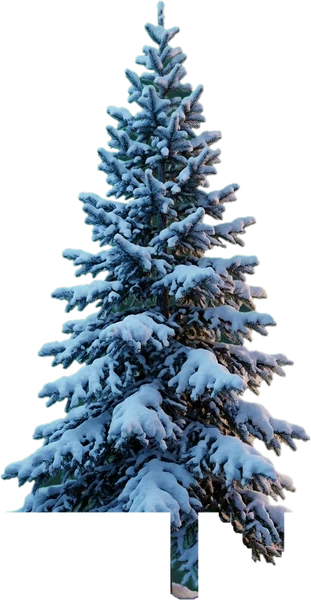
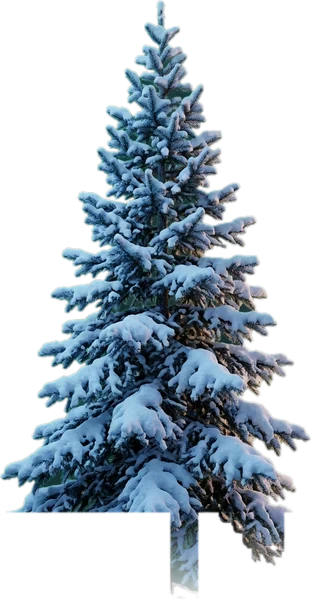
Game: textured 3D cottages and cup cottages, snow ground, bloom

Changed region(s): [[0.5209, 0.87, 0.6367, 1.0], [0.7524, 0.87, 0.926, 0.96]]

diff --git a/game.js b/game.js
@@ -23,7 +23,7 @@
     if (s.userData.x) s.scale.set(w, s.userData.h, w); else s.scale.set(w, s.userData.h, 1); if (s.userData.onfit && !s.userData.built) { s.userData.built = 1; s.userData.onfit(w, s.userData.h, im); }
     if (s.userData.mound && !s.userData.m) { const m = new T.Mesh(moundGeo, snowMat); m.scale.set(w * 1.15, 1, w * .8); m.position.set(s.position.x, .1, s.position.z); m.renderOrder = -1; scene.add(m); s.userData.m = m; } };
   function prop(n, h, x, z, extra, mound = true) {
-    if (!mats[n]) { users[n] = []; const t = TL.load('img/g/' + n + '.webp', () => users[n].forEach(fit)); t.encoding = T.sRGBEncoding; t.anisotropy = 4; mats[n] = new T.MeshBasicMaterial({ map: t, transparent: true, alphaTest: .04, side: T.DoubleSide }); }
+    if (!mats[n]) { users[n] = []; const t = TL.load('img/g/' + n + '.webp?v=2', () => users[n].forEach(fit)); t.encoding = T.sRGBEncoding; t.anisotropy = 4; mats[n] = new T.MeshBasicMaterial({ map: t, transparent: true, alphaTest: .04, side: T.DoubleSide }); }
     const s = new T.Mesh(CARD, extra ? Object.assign(mats[n].clone(), extra) : mats[n]); s.userData.h = h; s.userData.mound = mound; s.position.set(x, 0, z); s.scale.set(0, 0, 0); scene.add(s); users[n].push(s); cards.push(s); fit(s); return s;
   }
   function xprop(n, h, x, z) { // three crossed cards: reads as a full tree from every side
@@ -39,14 +39,44 @@
     for (let i = 0; i < 500; i++) { const r = rnd(4, 18), gx = rnd(0, 256), gy = rnd(0, 256), gr = x.createRadialGradient(gx, gy - r * .3, 0, gx, gy, r); gr.addColorStop(0, 'rgba(255,255,255,.55)'); gr.addColorStop(1, 'rgba(150,170,215,.18)'); x.fillStyle = gr; x.beginPath(); x.arc(gx, gy, r, 0, 6.3); x.fill(); }
     const t = new T.CanvasTexture(c); t.wrapS = t.wrapT = T.RepeatWrapping; t.repeat.set(1.5, 1.5); return t; })();
   const wallM = c => new T.MeshLambertMaterial({ map: planks, color: c }), roofM = () => new T.MeshLambertMaterial({ map: lumpy, color: 0xf2f6ff });
-  function building(n, h, x, z, face, bx, wf, wo, wt, ap, wc, roofW = 1.15) { // the photo is the facade; walls and a snowy gable roof give it a real body
-    const s = prop(n, h, x, z); cards.splice(cards.indexOf(s), 1); s.rotation.y = face;
-    s.userData.onfit = (W, H) => { const G = new T.Group(); G.position.copy(s.position); G.rotation.y = face; scene.add(G);
-      const bw = W * wf, d = bw * .62, wtop = H * wt, ox = W * wo;
-      const body = new T.Mesh(new T.BoxGeometry(bw, wtop, d), wallM(wc)); body.position.set(ox, wtop / 2, -d / 2 - .04); G.add(body);
-      const sh = new T.Shape(); sh.moveTo(-bw * roofW / 2, 0); sh.lineTo(bw * roofW / 2, 0); sh.lineTo(0, H * ap - wtop); sh.lineTo(-bw * roofW / 2, 0);
-      const roof = new T.Mesh(new T.ExtrudeGeometry(sh, { depth: d * 1.08, bevelEnabled: false }), roofM()); roof.position.set(ox, wtop - .05, -d * 1.08 - .02); G.add(roof); };
-    return s; }
+
+
+  const TXc = {}, TX = (n, rx = 1, ry = 1) => { const k = n + rx + ry; if (TXc[k]) return TXc[k]; const t = TL.load('img/t/' + n + '.jpg'); t.encoding = T.sRGBEncoding; t.anisotropy = 8; if (rx !== 1 || ry !== 1) { t.wrapS = t.wrapT = T.RepeatWrapping; t.repeat.set(rx, ry); } return TXc[k] = t; };
+  const wall = (n, list, on = 0) => { const m = new T.MeshLambertMaterial({ map: TX(n), emissiveMap: TX(n + '-e'), emissive: new T.Color().setScalar(on) }); if (list) list.push(m); return m; };
+  const snowM = () => new T.MeshLambertMaterial({ map: TX('snow', 1.5, 1.5), color: 0xffffff });
+  const iceGeo = new T.ConeGeometry(.07, .55, 5).rotateX(Math.PI), iceM = new T.MeshPhongMaterial({ color: 0xdfefff, transparent: true, opacity: .8, shininess: 120, specular: 0xffffff });
+  const bulbGeo = new T.SphereGeometry(.07, 6, 4), bulbM = new T.MeshBasicMaterial({ color: 0xffd28a });
+  function eaves(G, x0, x1, y, z) { // icicles and a string of warm bulbs along an eave
+    const n = Math.round((x1 - x0) / .32), ice = new T.InstancedMesh(iceGeo, iceM, n), bulbs = new T.InstancedMesh(bulbGeo, bulbM, n), m = new T.Matrix4();
+    for (let i = 0; i < n; i++) { const x = x0 + (i + .5) * (x1 - x0) / n, s = rnd(.5, 1.4); m.makeScale(1, s, 1).setPosition(x, y - .28 * s, z); ice.setMatrixAt(i, m); m.makeTranslation(x, y - .12 - Math.sin(i * .9) * .08, z + .06); bulbs.setMatrixAt(i, m); }
+    G.add(ice, bulbs); }
+  function cottage(x, z, face, front, side, list, on, W = 7.6, H = 4.8, D = 6.6) { // a real cottage: textured walls, snowy gable roof, chimney, icicles, fairy lights, steps
+    const G = new T.Group(); G.position.set(x, 0, z); G.rotation.y = face; scene.add(G);
+    const sm = wall(side, list, on), fm = wall(front, list, on);
+    const body = new T.Mesh(new T.BoxGeometry(W, H, D), [sm, sm, snowM(), sm, fm, sm]); body.position.y = H / 2; G.add(body);
+    const rh = 3.1, ow = W / 2 + .55, slope = Math.hypot(ow, rh), ang = Math.atan2(rh, ow);
+    for (const s of [-1, 1]) { const p = new T.Mesh(new T.BoxGeometry(slope, .42, D + 1.1), snowM()); p.position.set(s * ow / 2, H + rh / 2, 0); p.rotation.z = -s * ang; G.add(p); }
+    const tri = new T.Shape(); tri.moveTo(-W / 2, 0); tri.lineTo(W / 2, 0); tri.lineTo(0, rh * W / 2 / ow); tri.lineTo(-W / 2, 0);
+    const gm = new T.MeshLambertMaterial({ map: TX(side) }); for (const s of [-1, 1]) { const t = new T.Mesh(new T.ShapeGeometry(tri), gm); t.position.set(0, H, s * D / 2); if (s < 0) t.rotation.y = Math.PI; G.add(t); }
+    const ch = new T.Mesh(new T.BoxGeometry(.9, 2.2, .9), new T.MeshLambertMaterial({ color: 0x6b2a20 })); ch.position.set(W * .24, H + rh * .75, -D * .15); G.add(ch);
+    const cs = new T.Mesh(new T.BoxGeometry(1.1, .3, 1.1), snowM()); cs.position.set(W * .24, H + rh * .75 + 1.15, -D * .15); G.add(cs);
+    eaves(G, -ow, ow, H + .02, D / 2 + .5); eaves(G, -ow, ow, H + .02, -D / 2 - .5);
+    for (let i = 0; i < 3; i++) { const st = new T.Mesh(new T.BoxGeometry(2.2 - i * .3, .22, .55), snowM()); st.position.set(0, .11 + i * .22, D / 2 + 1.1 - i * .5); G.add(st); }
+    const mnd = new T.Mesh(moundGeo, snowMat); mnd.scale.set(W * 1.8, 1, D * 1.8); mnd.position.y = .1; G.add(mnd);
+    return { G, chimney: new T.Vector3(W * .24, H + rh * .75 + 1.3, -D * .15), W, D };
+  }
+  function cupCottage(x, z, face, list) { // a real paper cup: tapered cylinder wrapped all round, white rims, a heap of snow on the lid
+    const G = new T.Group(); G.position.set(x, 0, z); G.rotation.y = face; scene.add(G); const rT = 3.3, rB = 2.8, h = 7.6;
+    const m = wall('cup', list); m.map.offset.x = m.emissiveMap.offset.x = .25; m.map.wrapS = m.emissiveMap.wrapS = T.RepeatWrapping;
+    const c = new T.Mesh(new T.CylinderGeometry(rT, rB, h, 64, 1, true), m); c.position.y = h / 2; G.add(c);
+    const white = new T.MeshLambertMaterial({ color: 0xf3f1ec });
+    const top = new T.Mesh(new T.TorusGeometry(rT, .2, 12, 64), white); top.rotation.x = Math.PI / 2; top.position.y = h; G.add(top);
+    const band = new T.Mesh(new T.CylinderGeometry(rB + .02, rB - .02, .5, 64, 1, true), white); band.position.y = .25; G.add(band);
+    const cap = new T.Mesh(new T.SphereGeometry(rT * 1.08, 40, 14, 0, Math.PI * 2, 0, Math.PI / 2), snowM()); cap.scale.y = .5; cap.position.y = h; G.add(cap);
+    for (let i = 0; i < 3; i++) { const st = new T.Mesh(new T.BoxGeometry(2 - i * .3, .22, .5), snowM()); st.position.set(0, .11 + i * .22, rB + .9 - i * .45); G.add(st); }
+    const mnd = new T.Mesh(moundGeo, snowMat); mnd.scale.set(14, 1, 12); mnd.position.y = .1; G.add(mnd);
+    return { G, chimney: new T.Vector3(0, h + 1.2, 0), W: rT * 2, D: rT * 2 };
+  }
 
   // ---------- sky: the site's own night plate wraps the horizon, stars and aurora above ----------
   { const t = TL.load('img/bg-night.jpg'); t.encoding = T.sRGBEncoding; t.wrapS = T.MirroredRepeatWrapping; t.repeat.set(4, .62); t.offset.set(0, .38);
@@ -63,7 +93,7 @@
   { const c = document.createElement('canvas'); c.width = c.height = 256; const x = c.getContext('2d'); x.fillStyle = '#c3d0e8'; x.fillRect(0, 0, 256, 256);
     for (let i = 0; i < 2600; i++) { x.fillStyle = `rgba(${Math.random() < .5 ? '255,255,255' : '150,170,210'},${rnd(.04, .22)})`; x.beginPath(); x.arc(rnd(0, 256), rnd(0, 256), rnd(.5, 3), 0, 6.3); x.fill(); }
     const t = new T.CanvasTexture(c); t.wrapS = t.wrapT = T.RepeatWrapping; t.repeat.set(60, 60); snowTex = t.clone(); snowTex.repeat.set(2, 2); snowTex.needsUpdate = true;
-    const g = new T.Mesh(new T.PlaneGeometry(700, 700, 80, 80), new T.MeshLambertMaterial({ map: t })); snowMat = new T.MeshLambertMaterial({ map: drift, transparent: true, depthWrite: false });
+    const g = new T.Mesh(new T.PlaneGeometry(700, 700, 80, 80), new T.MeshLambertMaterial({ map: TX('snow', 34, 34), color: 0xe9eef9 })); snowMat = new T.MeshLambertMaterial({ map: drift, transparent: true, depthWrite: false });
     const p = g.geometry.attributes.position; for (let i = 0; i < p.count; i++) p.setZ(i, (Math.sin(p.getX(i) * .06) + Math.cos(p.getY(i) * .045)) * .45); g.geometry.computeVertexNormals();
     g.rotation.x = -Math.PI / 2; scene.add(g); }
   const pts = []; for (let i = 0; i < 14; i++) { const a = i / 14 * Math.PI * 2, r = 66 + Math.sin(a * 3) * 14 + Math.cos(a * 2) * 6; pts.push(new T.Vector3(Math.cos(a) * r, 0, Math.sin(a) * r)); }
@@ -80,8 +110,8 @@
   const solid = []; // circles the truck cannot drive through
 
   // ---------- places ----------
-  const S0 = 0, ws = side(S0 + 18, -17), faceRoad = (p, i) => Math.atan2(RS[i].x - p.x, RS[i].z - p.z); building('workshop', 15, ws.x, ws.z, faceRoad(ws, S0 + 18), 0, .65, 0, .63, .96, 0x8a5a36); solid.push([ws.x, ws.z, 8]);                 // the trip starts at Santa's workshop
-  { const p = side(300, 16); building('stable', 12, p.x, p.z, faceRoad(p, 300), 0, .56, -.09, .65, .9, 0xa0261c, 1.4); solid.push([p.x, p.z, 7]); }
+  const S0 = 0, ws = side(S0 + 18, -17), faceRoad = (p, i) => Math.atan2(RS[i].x - p.x, RS[i].z - p.z); cottage(ws.x, ws.z, faceRoad(ws, S0 + 18), 'workshop-front', 'cottage-side', null, 1, 10, 6.4, 8).G.children[0].material[0].color.set(0x8a6a50); solid.push([ws.x, ws.z, 8]);                 // the trip starts at Santa's workshop
+  { const p = side(300, 16); cottage(p.x, p.z, faceRoad(p, 300), 'cottage-front', 'cottage-side', null, 1, 8.5, 5, 7); solid.push([p.x, p.z, 7]); }
   xprop('tree', 17, 0, -4); prop('santabear', 6.4, 0, 6); solid.push([0, 0, 9]);                                         // the square: the big tree, Santa and the bear
   // real snow globes: a glass sphere with a fresnel rim and moving highlights, the bear and a little fir inside, snow swirling in the water, a red lacquer and gold base
   const sparks = [], globes = [];
@@ -114,33 +144,13 @@
   for (let tries = 0, n = 0; n < (PHONE ? 110 : 190) && tries < 4000; tries++) { const a = rnd(0, 6.283), r = rnd(18, 230), x = Math.cos(a) * r, z = Math.sin(a) * r;
     if (roadDist(x, z) < 11 || Math.hypot(x - ws.x, z - ws.z) < 14 || Math.hypot(x, z) < 16) continue; xprop('spruce', rnd(8, 16), x, z); n++; }
 
-  function crop(im, x0, y0, x1, y1, w, h) { const c = document.createElement('canvas'); c.width = w; c.height = h; c.getContext('2d').drawImage(im, x0 * im.width, y0 * im.height, (x1 - x0) * im.width, (y1 - y0) * im.height, 0, 0, w, h); const t = new T.CanvasTexture(c); t.encoding = T.sRGBEncoding; return t; }
-  const paper = (() => { const c = document.createElement('canvas'); c.width = 256; c.height = 256; const x = c.getContext('2d'); x.fillStyle = '#8f1814'; x.fillRect(0, 0, 256, 256);
-    for (let i = 0; i < 1800; i++) { x.fillStyle = `rgba(${Math.random() < .5 ? '0,0,0' : '255,120,110'},${rnd(.02, .06)})`; x.fillRect(rnd(0, 256), 0, 1, 256); }
-    x.fillStyle = 'rgba(255,255,255,.75)'; x.font = '28px serif'; x.fillText('\u2744', 40, 80); x.fillText('\u2744', 170, 190); const t = new T.CanvasTexture(c); t.wrapS = t.wrapT = T.RepeatWrapping; t.repeat.set(2, 2); t.encoding = T.sRGBEncoding; return t; })();
-  function cupHouse(x, z, h, face, litM) { // a real paper cup: tapered cylinder, the photo wraps its front, snow heaped on the lid
-    const G = new T.Group(); G.position.set(x, 0, z); G.rotation.y = face; scene.add(G);
-    const done = (dark, lit) => { const W = h * dark.width / dark.height, top = h * (1 - 173 / 836), rT = W * .364, rB = W * .315, A = 2.5;
-      const cyl = (t0, tl, mat, dr = 0) => { const m = new T.Mesh(new T.CylinderGeometry(rT + dr, rB + dr, top, 48, 1, true, t0, tl), mat); m.position.y = top / 2; G.add(m); return m; };
-      cyl(-A / 2, A, new T.MeshBasicMaterial({ map: crop(dark, 73 / 529, 173 / 836, 458 / 529, 1, 512, 640), side: T.FrontSide }));
-      const lm = new T.MeshBasicMaterial({ map: crop(lit, 73 / 529, 173 / 836, 458 / 529, 1, 512, 640), transparent: true, opacity: 0, depthWrite: false }); cyl(-A / 2, A, lm, .01); litM.push(lm);
-      cyl(A / 2, Math.PI * 2 - A, new T.MeshLambertMaterial({ map: paper }));
-      const rim = new T.Mesh(new T.TorusGeometry(rT, rT * .06, 10, 48), new T.MeshLambertMaterial({ color: 0xf2f2f2 })); rim.rotation.x = Math.PI / 2; rim.position.y = top; G.add(rim);
-      const cap = new T.Mesh(new T.SphereGeometry(rT * 1.06, 32, 12, 0, Math.PI * 2, 0, Math.PI / 2), roofM()); cap.scale.y = .42; cap.position.y = top; G.add(cap);
-      const stepH = h * .3, stepW = W, steps = (img, op) => { const m = new T.MeshBasicMaterial({ map: crop(img, 0, .7, 1, 1, 512, 160), transparent: true, alphaTest: .05, opacity: op }); const p = new T.Mesh(CARD, m); p.scale.set(stepW, stepH, 1); p.position.z = rB + .05; G.add(p); return m; };
-      steps(dark, 1); const sl = steps(lit, 0); sl.alphaTest = 0; sl.depthWrite = false; litM.push(sl);
-      const mnd = new T.Mesh(moundGeo, snowMat); mnd.scale.set(W * 1.3, 1, W * 1.1); mnd.position.y = .1; G.add(mnd); };
-    let d0 = null, l0 = null; const go = () => d0 && l0 && done(d0, l0);
-    new T.ImageLoader().load('img/g/cuphouse-d.webp', im => { d0 = im; go(); }); new T.ImageLoader().load('img/g/cuphouse.webp', im => { l0 = im; go(); });
-    return null; }
   // houses: a paper-cup cottage or a gift-box cottage, dark until their gift arrives
   const houses = [], NH = 8;
   for (let k = 0; k < NH; k++) {
     const i = Math.floor((k + .5) / NH * N) % N, d = k % 2 ? 1 : -1, p = side(i, 13 * d), n = k % 2 ? 'cuphouse' : 'boxhouse', h = n === 'cuphouse' ? 9 : 9.5;
     const fr = faceRoad(p, i), litM = [];
     let lit;
-    if (n === 'boxhouse') { building('boxhouse-d', h, p.x, p.z, fr, 0, .6, -.06, .6, .95, 0xa0261c); lit = prop(n, h, p.x, p.z, { opacity: 0 }); cards.splice(cards.indexOf(lit), 1); lit.rotation.y = fr; lit.position.add(new T.Vector3(Math.sin(fr) * .03, 0, Math.cos(fr) * .03)); litM.push(lit.material); }
-    else lit = cupHouse(p.x, p.z, h, fr, litM);
+    const H3 = n === 'boxhouse' ? cottage(p.x, p.z, fr, 'cottage-front', 'cottage-side', litM, 0) : cupCottage(p.x, p.z, fr, litM);
     const gl = new T.Sprite(glow(0xffb066, 0)); gl.position.set(p.x, h * .35, p.z); gl.scale.set(h * 1.6, h * 1.1, 1); scene.add(gl);
     const door = side(i, 6.5 * d), bea = new T.Group(); bea.position.set(door.x, 0, door.z); scene.add(bea);
     const col = new T.Mesh(new T.CylinderGeometry(1, 1, 30, 24, 1, true), new T.MeshBasicMaterial({ color: 0xff2a2a, transparent: true, opacity: .14, blending: T.AdditiveBlending, depthWrite: false, side: T.DoubleSide })); col.position.y = 15; bea.add(col);
@@ -198,7 +208,7 @@
   function close() { S.on = false; root.hidden = true; document.documentElement.classList.remove('playing'); music.pause(); window.__playing = false; if (document.fullscreenElement) document.exitFullscreen().catch(() => { }); }
   function restart() { houses.forEach(o => { o.done = false; o.L = 0; o.bea.visible = true; }); S.done = 0; S.end = 0; fin.hidden = true; setCount(); }
   $('#pclose').addEventListener('click', close); $('#pagain').addEventListener('click', restart); $('#pexit').addEventListener('click', close);
-  let lw = 0, lh = 0; function size() { const w = cv.clientWidth || innerWidth, h = cv.clientHeight || innerHeight; lw = w; lh = h; R.setPixelRatio(Math.min(PHONE ? 1.5 : 2, devicePixelRatio || 1)); R.setSize(w, h, false); cam.aspect = w / h; cam.updateProjectionMatrix(); }
+  let lw = 0, lh = 0; function size() { const w = cv.clientWidth || innerWidth, h = cv.clientHeight || innerHeight; lw = w; lh = h; R.setPixelRatio(Math.min(PHONE ? 1.5 : 2, devicePixelRatio || 1)); R.setSize(w, h, false); if (comp) comp.setSize(w, h); cam.aspect = w / h; cam.updateProjectionMatrix(); }
 
   // ---------- the loop ----------
   let last = 0, tt = 0; const camPos = new T.Vector3(), camLook = new T.Vector3();
@@ -222,7 +232,7 @@
     for (const o of houses) { const d = Math.hypot(o.door.x - S.x, o.door.z - S.z); if (!o.done) { if (d < nd) { nd = d; near = o; } if (d < 7.5) { o.done = true; o.bea.visible = false; gift(o); } }
       o.ring.rotation.z += dt * .8; o.col.material.opacity = .11 + Math.sin(tt * 2.4) * .04;
       if (o.L > 0 && o.L < 1) o.L = Math.min(1, o.L + dt / 1.6);
-      o.litM.forEach(m => m.opacity = o.L); o.gl.material.opacity = o.L * (.5 + Math.sin(tt * 6 + o.p.x) * .03);
+      o.litM.forEach(m => m.emissive.setScalar(o.L * 1.15)); o.gl.material.opacity = o.L * (.5 + Math.sin(tt * 6 + o.p.x) * .03);
       o.smoke.forEach(s => { s.t = (s.t + dt * .14) % 1; s.m.position.set(o.p.x + Math.sin(s.t * 6 + o.p.z) * .5, o.h * .95 + s.t * 7, o.p.z); const k = 1.2 + s.t * 3.5; s.m.scale.set(k, k, 1); s.m.material.opacity = o.L * .45 * Math.sin(s.t * Math.PI); }); }
     for (let i = flying.length - 1; i >= 0; i--) { const f = flying[i]; f.t += dt / .9; const k = Math.min(1, f.t); f.g.position.lerpVectors(f.a, f.b, k); f.g.position.y += Math.sin(k * Math.PI) * 6; f.g.rotation.y += dt * 5;
       if (k >= 1) { flying.splice(i, 1); scene.remove(f.g); f.o.L = .001; S.done++; setCount(); if (S.done === NH) S.end = .001; } }
@@ -247,8 +257,12 @@
     rear.rotation.y = Math.atan2(cam.position.x - S.x, cam.position.z - S.z) - S.yaw;
     const p = snow.geometry.attributes.position; for (let i = 0; i < NS; i++) { let y = p.getY(i) - dt * (2.2 + (i % 5) * .3); if (y < 0) y += 40; p.setY(i, y); p.setX(i, p.getX(i) + Math.sin(tt + i) * .004); } p.needsUpdate = true; snow.position.set(S.x, 0, S.z);
     for (const m of motes) { m.y += dt * m.v; if (m.y > 15) m.y = .5; const x = S.x + m.x + Math.sin(tt * .4 + m.ph) * 2, z = S.z + m.z + Math.cos(tt * .3 + m.ph) * 2; m.s.position.set(x, m.y, z); m.s.material.opacity = (Math.sin(tt * 1.7 + m.ph) * .5 + .5) * .7; }
-    R.render(scene, cam); requestAnimationFrame(loop);
+    if (comp) comp.render(); else R.render(scene, cam); requestAnimationFrame(loop);
   }
+  let comp = null;
+  const add = s => new Promise((ok, no) => { const e = document.createElement('script'); e.src = 'https://cdn.jsdelivr.net/npm/three@0.128.0/examples/js/' + s; e.onload = ok; e.onerror = no; document.head.appendChild(e); });
+  (async () => { try { for (const s of ['shaders/CopyShader.js', 'shaders/LuminosityHighPassShader.js', 'shaders/GammaCorrectionShader.js', 'postprocessing/EffectComposer.js', 'postprocessing/RenderPass.js', 'postprocessing/ShaderPass.js', 'postprocessing/UnrealBloomPass.js']) await add(s);
+      comp = new T.EffectComposer(R); comp.addPass(new T.RenderPass(scene, cam)); const b = new T.UnrealBloomPass(new T.Vector2(innerWidth, innerHeight), PHONE ? .55 : .75, .55, .82); comp.addPass(b); comp.addPass(new T.ShaderPass(T.GammaCorrectionShader)); comp._b = b; size(); } catch (e) { comp = null; } })();
   window.__play = { open, close };
   open();
 })();

diff --git a/app.js b/app.js
@@ -285,7 +285,7 @@
   const arm = () => { if (soundOn && wasTruck && snd.paused) snd.play().catch(() => { }); };
   ['pointerdown', 'keydown', 'touchend', 'wheel'].forEach(e => addEventListener(e, arm, { passive: true }));
   window.__site = { soundOn: () => soundOn };
-  $('#playbtn').addEventListener('click', () => { if (snd) snd.pause(); if (window.__play) return window.__play.open(); const sc = document.createElement('script'); sc.src = 'game.js?v=11'; document.body.appendChild(sc); });
+  $('#playbtn').addEventListener('click', () => { if (snd) snd.pause(); if (window.__play) return window.__play.open(); const sc = document.createElement('script'); sc.src = 'game.js?v=14'; document.body.appendChild(sc); });
   sbtn.addEventListener('click', () => { arm(); soundOn = !soundOn; sbtn.classList.toggle('on', soundOn); sbtn.setAttribute('aria-pressed', soundOn); });
 
   /* ---------- game: join seven stars into the Great Bear ---------- */
